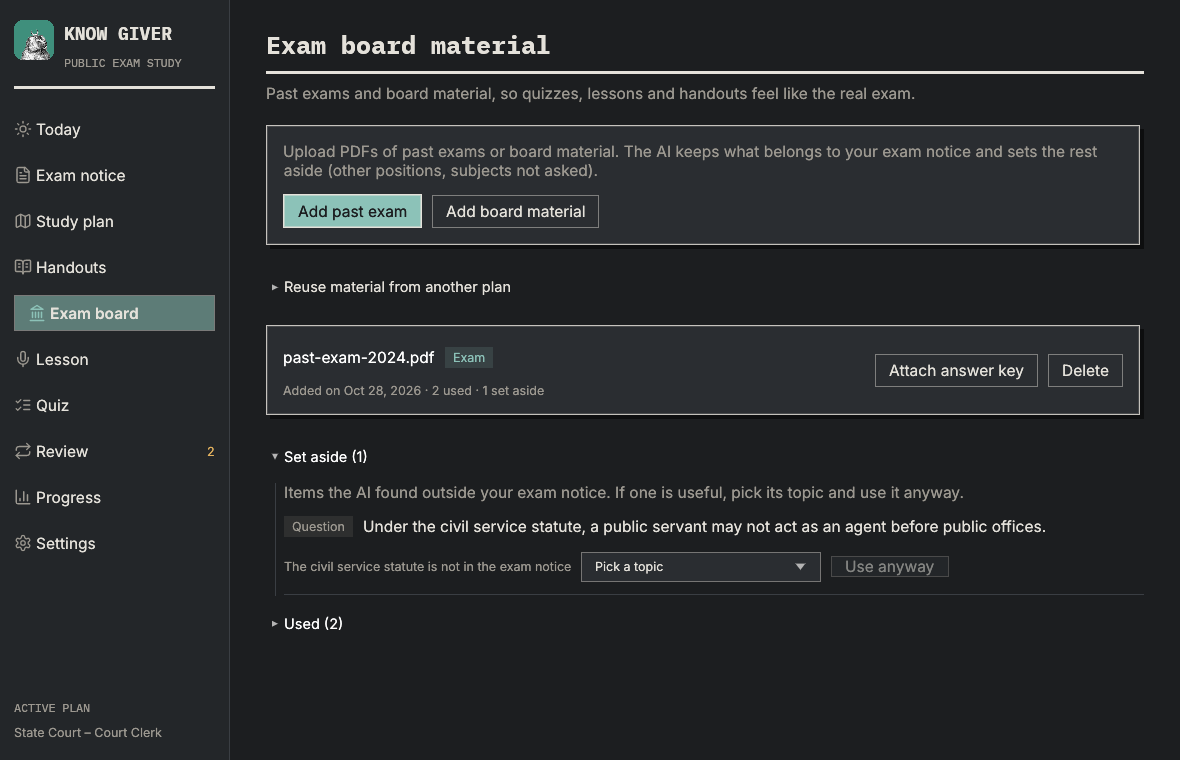
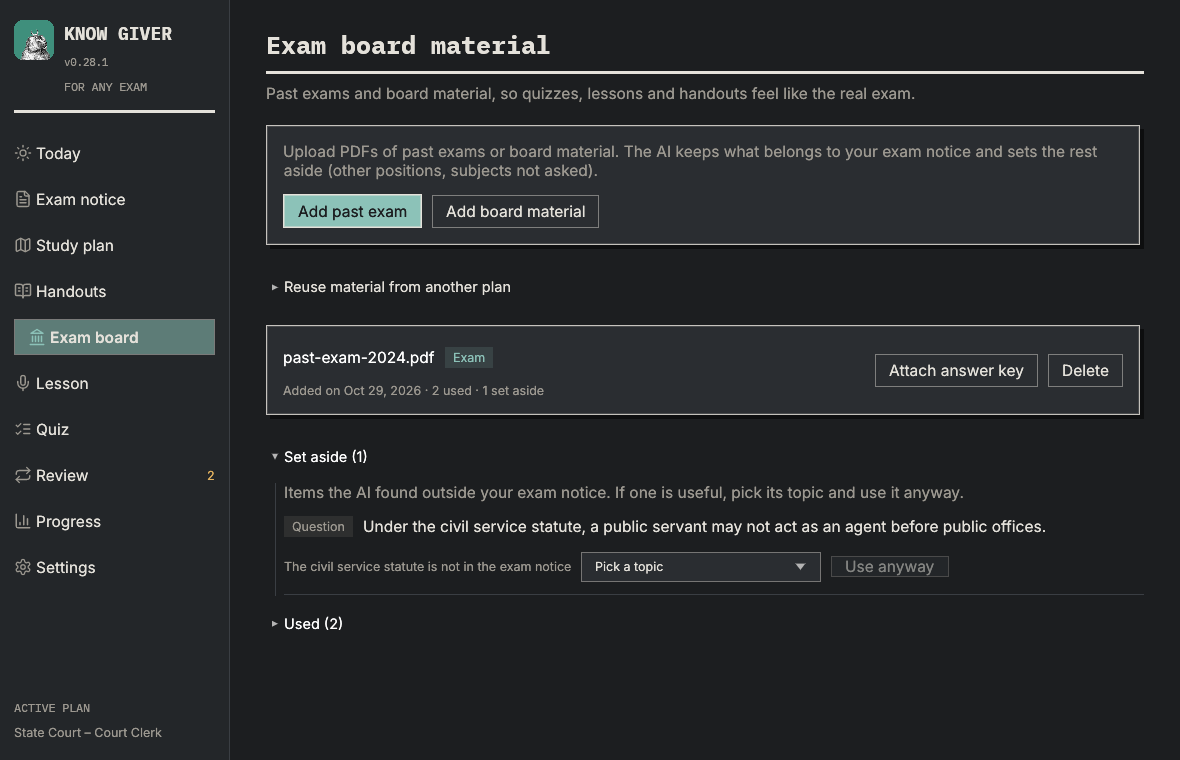
docs: refresh README screenshots for v0.28.1
Screenshots now show the version under the name, the new tagline and the
lesson recap buttons. The snapshot run clears the "lesson recorded"
message so it no longer sits on every later screen.

Changed region(s): [[0.0, 0.0605, 0.1831, 0.7566]]

diff --git a/crates/ui/src/snapshots.rs b/crates/ui/src/snapshots.rs
@@ -288,6 +288,9 @@ FIM",
             &format!("{locale}-lesson-recap"),
         );
         harness.state_mut().dispatch(Command::CloseRecap);
+        // The "lesson recorded" message would sit on every later screenshot.
+        harness.run();
+        harness.state_mut().clear_toasts();
 
         // An edital with several roles, waiting for the choice.
         let roles = tr(

diff --git a/crates/ui/src/app.rs b/crates/ui/src/app.rs
@@ -210,6 +210,12 @@ impl KnowGiverApp {
         self.ui.screen = screen;
     }
 
+    /// Drops the messages on screen, for screenshots.
+    #[cfg(test)]
+    pub(crate) fn clear_toasts(&mut self) {
+        self.toasts.clear();
+    }
+
     fn push_toast(&mut self, text: String, is_error: bool) {
         self.toasts.push(Toast {
             text,
